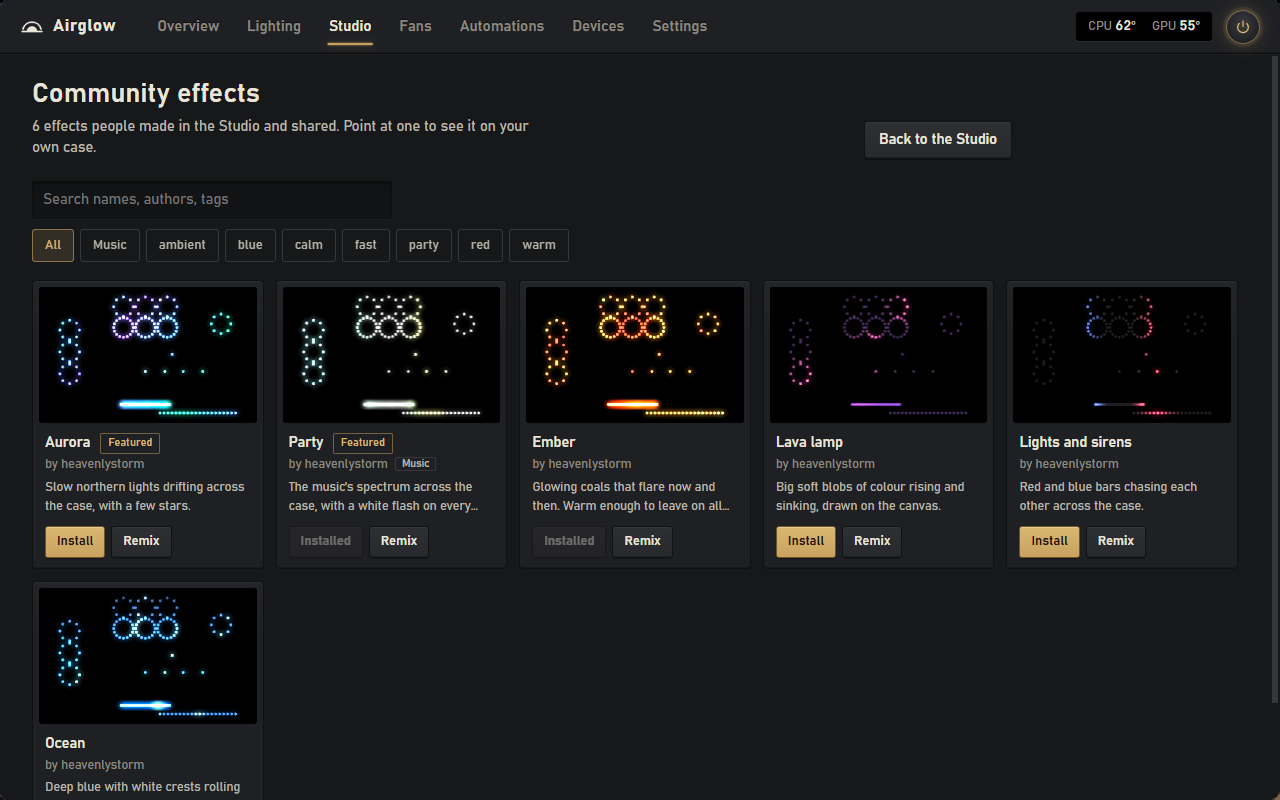
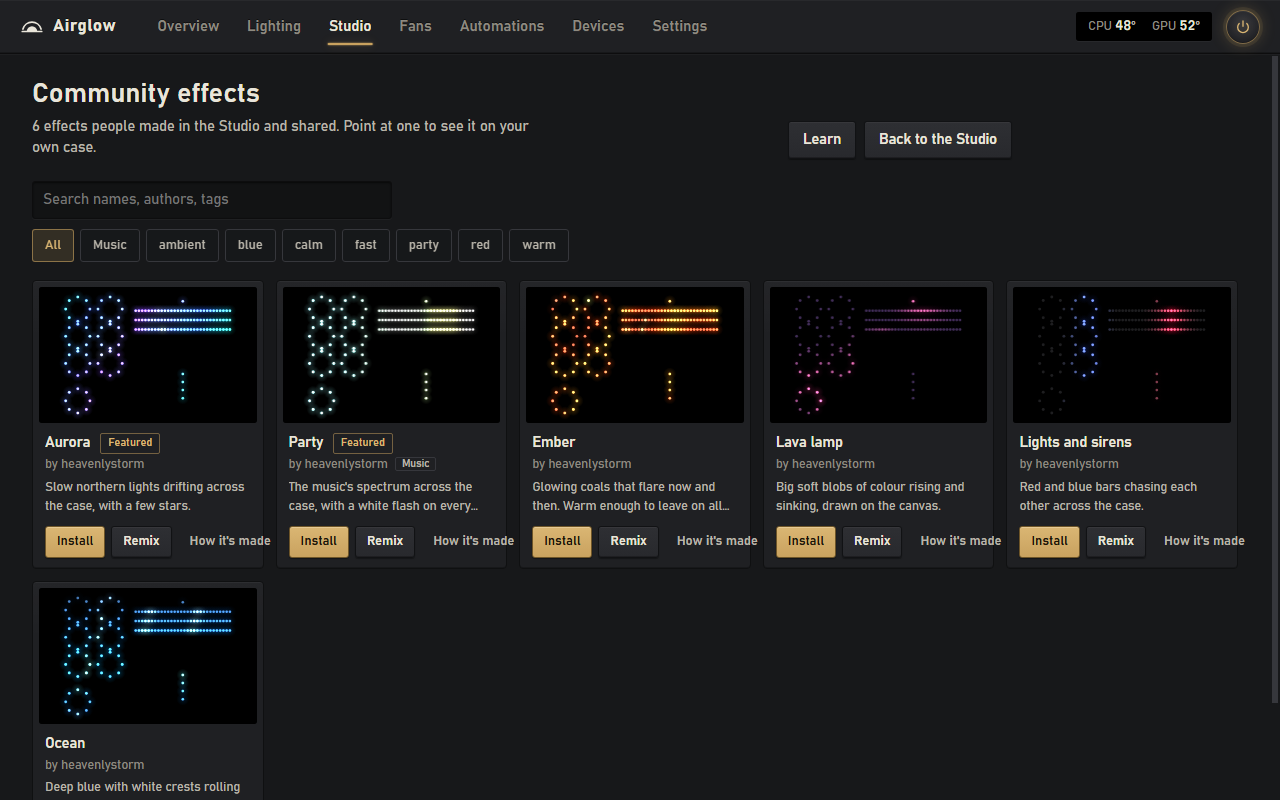
README: refresh for 1.9
- new Studio, code, gallery and Share-check screenshots
- sample case, palette/master controls, undo and the pre-share check
- current first-run flow; Scoop is available, winget is in review
- What's new block and a Contributing section

diff --git a/README.md b/README.md
@@ -17,6 +17,22 @@ them. It's free and open source, there's no account, and it doesn't collect anyt
 
 ![The Overview: your lights, temperatures, load, power and fans on one screen](docs/screenshots/overview.png)
 
+<details>
+<summary><b>What's new in 1.9</b></summary>
+
+- The Studio works before any lights are set up: a labelled **sample case** stands in, and every template shows a
+  real live still.
+- One **palette** and **speed, brightness and music-reactivity** knobs for the whole effect, each exposable as a
+  control. Controls keep their ids when a layer moves.
+- **Music reaction on any layer**, plus **Comet** and **Chase** layers, built on each LED's place around its own fan
+  or along its strip.
+- **Undo/redo, autosave and Revert**, typed slider values and a reset, and a debug strip for code.
+- **Share runs the check**: the reviewer list, strobing and frame time, and the exact file, before GitHub opens.
+- Code effects declare controls with `airglow.params({...})`; `console.log` and clickable errors.
+
+[Release notes](https://github.com/Heavenlystorm/airglow/releases/tag/v1.9.0) · [Changelog](CHANGELOG.md)
+</details>
+
 ## Lighting
 Airglow draws your fans and strips where they actually sit in the case and lights them with the colours the hardware
 is showing right now. Setting that up takes a minute: each header blinks while you set it up, you pick the product
@@ -30,36 +46,36 @@ before keeping them.
 ![Lighting: the case as you set it up, with the effect list underneath](docs/screenshots/lighting.png)
 
 ## The Studio
-New in 1.6, and much quicker in 1.9. If none of the effects is quite what you want, make your own. Pick a starting
-point or press **Surprise me**, stack layers (gradients, plasma, waves, sparkles, a scanner, a comet around every fan,
-a chase, a pulse on the beat), choose how each one mixes in and which part of the case it lights, and watch the result
-as you go. With no lights set up yet it plays on a sample case, so you can start before the hardware is configured.
-Turn on "Also on my lights" and the real hardware follows along.
+If none of the built-in effects is quite what you want, make your own. Pick a starting point or press **Surprise me**,
+stack layers (gradients, plasma, waves, sparkles, a scanner, a comet around every fan, a chase, a pulse on the beat),
+choose how each one mixes in and which part of the case it lights, and watch the result as you go. With no lights set
+up yet it plays on a labelled sample case, so you can start before the hardware is configured. Turn on "Also on my
+lights" and the real hardware follows along.
 
-One palette and a speed, brightness and music-reactivity knob apply to the whole effect, so a person who installs it
-can retune it without touching every layer. Tick "Show as a control" under any setting, including the palette, and it
-appears in their effect panel. Layers can follow the music, and the palette survives a reorder: a control stays with
-its own layer. Undo and redo, autosave and "Revert" make experimenting cheap; **Check** lists what a reviewer would
-say before you share.
+The palette, speed, brightness and music reactivity are one set of settings for the whole effect, so whoever installs
+it can retune it in one place. Tick "Show as a control" under any setting, including the palette, and it appears in
+their effect panel; a control stays with its own layer when you reorder the stack. Any layer can follow the music, and
+undo/redo, autosave and Revert make experimenting cheap.
 
-![The Studio: layers on the left, your case in the middle, the selected layer's settings on the right](docs/screenshots/studio.png)
+![The Studio: layers on the left, your case in the middle, and the effect's palette and knobs on the right](docs/screenshots/studio.png)
+
+**Share** first shows the check a reviewer would run — the reviewer list, strobing and frame time, and the exact file
+— then opens GitHub. Once the pull request is merged, everyone can find it in Studio, Community effects, see it on
+their own case and install it; **How it's made** shows the layers and controls before installing, and **Learn** has the
+rules and copyable recipes. Every effect, yours or someone else's, runs sandboxed: it can't reach the internet, your
+files or the rest of Airglow. [docs/EFFECT-STUDIO.md](docs/EFFECT-STUDIO.md) has the format, and
+[effects/README.md](effects/README.md) explains sharing.
+
+![Ready to share: the check, the reviewer list and the exact file, before GitHub opens](docs/screenshots/studio-check.png)
 
 If you'd rather write code, switch the editor to Code. An effect is a small HTML file with a script that draws on a
 320 × 200 canvas, or simply answers "what colour is this LED right now?" — with `led.local`, `led.fan`, `led.area` and
 `ctx.rig` when it needs to know where it is. Declare controls with `airglow.params({...})` next to the code, use
 `console.log` and the clickable error line, and pause or slow the preview down to look at a frame. There are templates
-to start from, a type file in `docs/effect-api.d.ts`, and you can edit in VS Code with the preview reloading every
-time you save.
+to start from, [type declarations](docs/effect-api.d.ts) for editors, and you can edit in VS Code with the preview
+reloading every time you save.
 
 ![Code mode: the effect's file on the left, the preview in the middle, its controls on the right](docs/screenshots/studio-code.png)
-
-Share sends your effect to the community gallery as a pull request on GitHub. It gets checked automatically and
-looked over, and once it's merged everyone can find it in Studio, Community effects, see it running on their own
-case and install it. The gallery's **How it's made** shows a shared effect's layers and controls before you install
-it, and **Learn** in the Studio has the rules and copyable recipes. Every effect, yours or someone else's, runs
-sandboxed: it can't reach the internet, your files or the rest of Airglow.
-[docs/EFFECT-STUDIO.md](docs/EFFECT-STUDIO.md) has the details, and [effects/README.md](effects/README.md) explains
-sharing.
 
 ![Community effects, each shown on your own case](docs/screenshots/community.png)
 
@@ -87,17 +103,35 @@ turns the lights off while the PC sleeps (plenty of boards leave RGB on) and set
 2. Close any other RGB software (SignalRGB, iCUE, NZXT CAM, Armoury Crate). Two programs driving the same LEDs makes
    them flicker. Airglow spots the usual ones and offers to close them.
 3. Open Airglow. The welcome screen shows what it found. Temperatures and most RGB devices come from two other free
-   programs, LibreHardwareMonitor and OpenRGB. Press **Set up automatically** and Airglow downloads them from their
-   own sites, checks each file against a known checksum and installs them. Windows asks for permission once.
-4. Set up your lights when it asks. It takes about a minute.
+   programs, LibreHardwareMonitor and OpenRGB; if they're missing, the welcome screen offers **Set up automatically**,
+   which downloads them from their official sources, checks each file against a known checksum and installs them.
+   Windows asks for permission once.
+4. Press **Set up lights** and tell Airglow what's plugged in where. It takes about a minute.
 
-Coming from 1.5 or older? Run the new installer. It moves Airglow to the new setup and keeps your settings, profiles
-and helper programs. From 1.6 on, Airglow can update itself: it asks once whether to check automatically, and if you
-say no it only looks when you press "Check for updates" in Settings, About. winget and Scoop packages are planned.
+Already on 1.6 or newer? Airglow updates itself: it asks once whether to check automatically, and if you say no it
+only looks when you press "Check for updates" in Settings, About. Coming from 1.5 or older, run the new installer; it
+keeps your settings, profiles and helper programs.
 
 You need Windows 10 (1809 or newer) or Windows 11. Windows 11 already has the WebView2 runtime Airglow uses; on
 Windows 10 it usually comes with Edge. If your PC doesn't have it, the installer adds it, and if you start Airglow
 without it (from the portable zip, say) it tells you where to get it.
+
+<details>
+<summary>Scoop, winget or the portable zip</summary>
+
+Scoop (run `scoop update airglow` to update it):
+
+```
+scoop bucket add airglow https://github.com/Heavenlystorm/scoop-airglow
+scoop install airglow
+```
+
+**winget:** a manifest is in review; once Microsoft merges it, `winget install Heavenlystorm.Airglow` works. Until
+then, use the installer or Scoop.
+
+The portable zip is on the [releases page](https://github.com/Heavenlystorm/airglow/releases); it needs the WebView2
+runtime, which the installer would add for you.
+</details>
 
 <details>
 <summary>Setting up the helper programs yourself, or motherboard fans</summary>
@@ -193,6 +227,13 @@ a version tag is pushed; [docs/RELEASING.md](docs/RELEASING.md) has the steps.
 
 The NZXT and ASUS packet formats follow what liquidctl and OpenRGB document for these controllers (credits in
 [THIRD_PARTY_NOTICES.md](THIRD_PARTY_NOTICES.md)). Airglow is its own implementation and includes none of their code.
+
+## Contributing
+Bug reports and ideas are welcome on the [issues](https://github.com/Heavenlystorm/airglow/issues).
+[CONTRIBUTING.md](CONTRIBUTING.md) has the setup, the test commands and the conventions; effects have their own guide
+in [effects/README.md](effects/README.md), and each device family is one plugin in
+[`airglow/plugins/`](airglow/plugins/). Security reports go through [SECURITY.md](SECURITY.md). The unit tests need no
+hardware.
 
 ## Licence
 MIT, see [LICENSE](LICENSE). Bundled components and their licences are listed in
